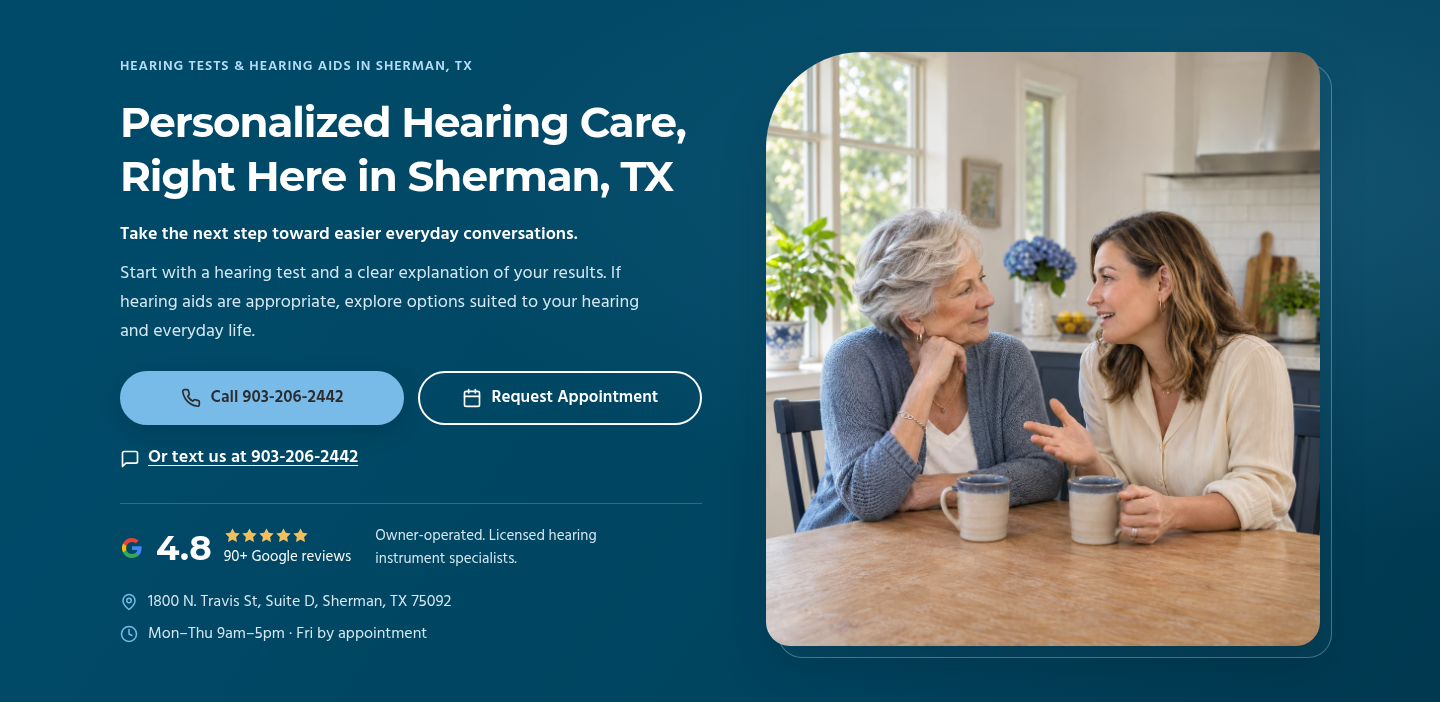
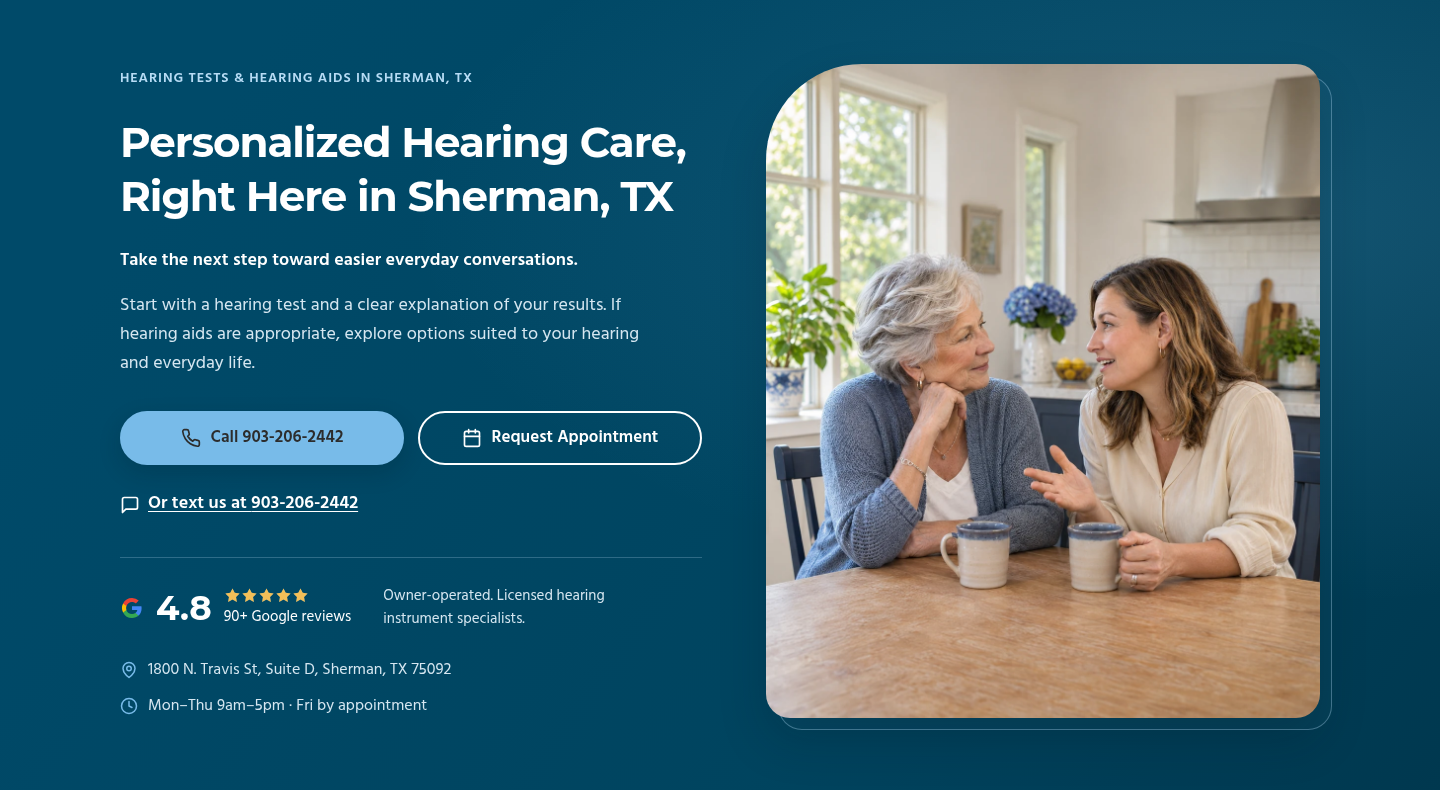
Give hero content more breathing space

diff --git a/index.html b/index.html
@@ -283,38 +283,43 @@ a:hover{ color:var(--hc-navy); }
 }
 
 /* Refined split hero: retain headline styling and existing image. */
-.hc-hero--split{ padding:52px 0 56px; }
+.hc-hero--split{ padding:64px 0 72px; }
 .hc-hero__grid{ column-gap:64px; }
 .hc-hero__eyebrow{ padding:0; border:0; border-radius:0; background:transparent; letter-spacing:.065em; }
-.hc-hero__benefit{ margin-top:22px; padding:0; border:0; font-size:1.125rem; line-height:1.5; font-weight:600; }
-.hc-hero__lead{ margin-top:12px; max-width:520px; }
-.hc-hero__actions{ margin-top:24px; }
+.hc-hero--split h1{ margin-top:26px; }
+.hc-hero__benefit{ margin-top:28px; padding:0; border:0; font-size:1.125rem; line-height:1.5; font-weight:600; }
+.hc-hero__lead{ margin-top:18px; max-width:520px; }
+.hc-hero__actions{ margin-top:32px; }
+.hc-hero--split .hc-cta{ row-gap:18px; }
 .hc-hero--split .hc-btn{ min-height:54px; }
 .hc-hero--split .hc-btn--appt{ background:transparent; color:#fff; border-color:#fff; transition:none; }
 .hc-hero--split .hc-btn--appt:hover,.hc-hero--split .hc-btn--appt:focus-visible{ background:#fff; color:var(--hc-navy); border-color:#fff; }
-.hc-hero__proof{ grid-area:proof; display:flex; flex-wrap:wrap; align-items:center; gap:14px 24px; margin-top:22px; padding-top:20px; border-top:1px solid rgba(183,220,245,.25); }
+.hc-hero__proof{ grid-area:proof; display:flex; flex-wrap:wrap; align-items:center; gap:18px 32px; margin-top:30px; padding-top:26px; border-top:1px solid rgba(183,220,245,.25); }
 .hc-hero--split .hc-hero__proof .hc-badge{ margin:0; flex:none; }
 .hc-hero__proof .hc-hero__trust{ display:block; flex:1 1 200px; max-width:270px; margin:0; font-size:.9375rem; line-height:1.5; color:#d6e7f1; }
 .hc-hero__proof .hc-hero__trust::before{ display:none; }
-.hc-hero--split .hc-facts{ margin-top:18px; padding:0; border:0; background:transparent; border-radius:0; gap:8px; }
+.hc-hero--split .hc-facts{ margin-top:26px; padding:0; border:0; background:transparent; border-radius:0; gap:12px; }
 .hc-hero__media{ min-height:0; border-radius:96px 24px 24px 24px; box-shadow:0 22px 48px rgba(0,20,32,.2); }
 .hc-hero__media::after{ inset:12px -12px -12px 12px; border-radius:96px 24px 24px 24px; }
 .hc-hero__media img{ object-position:50% 58%; }
 @media(max-width:1199px) and (min-width:1024px){ .hc-hero__grid{ column-gap:40px; } }
 @media(max-width:1023px){
- .hc-hero--split{ padding:40px 0 44px; }
+ .hc-hero--split{ padding:48px 0 52px; }
  .hc-hero__media{ aspect-ratio:4 / 3; border-radius:60px 20px 20px 20px; }
  .hc-hero__media img{ object-position:50% 46%; }
 }
 @media(max-width:639px){
- .hc-hero--split{ padding:30px 0 36px; }
+ .hc-hero--split{ padding:36px 0 44px; }
  .hc-hero__eyebrow{ font-size:.8125rem; line-height:1.6; letter-spacing:.035em; }
- .hc-hero__benefit{ margin-top:18px; font-size:1.0625rem; }
- .hc-hero__actions{ margin-top:22px; }
- .hc-hero__proof{ margin-top:20px; padding-top:18px; gap:12px; }
+ .hc-hero--split h1{ margin-top:22px; }
+ .hc-hero__benefit{ margin-top:22px; font-size:1.0625rem; }
+ .hc-hero__lead{ margin-top:16px; }
+ .hc-hero__actions{ margin-top:28px; }
+ .hc-hero--split .hc-cta{ row-gap:14px; }
+ .hc-hero__proof{ margin-top:26px; padding-top:22px; gap:16px; }
  .hc-hero__proof .hc-hero__trust{ max-width:none; flex-basis:100%; }
- .hc-hero--split .hc-facts{ margin-top:16px; }
- .hc-hero__media{ margin-top:24px; border-radius:48px 16px 16px 16px; }
+ .hc-hero--split .hc-facts{ margin-top:22px; }
+ .hc-hero__media{ margin-top:30px; border-radius:48px 16px 16px 16px; }
 }
 
 /* Stars */

diff --git a/review/hero-review.html b/review/hero-review.html
@@ -283,38 +283,43 @@ a:hover{ color:var(--hc-navy); }
 }
 
 /* Refined split hero: retain headline styling and existing image. */
-.hc-hero--split{ padding:52px 0 56px; }
+.hc-hero--split{ padding:64px 0 72px; }
 .hc-hero__grid{ column-gap:64px; }
 .hc-hero__eyebrow{ padding:0; border:0; border-radius:0; background:transparent; letter-spacing:.065em; }
-.hc-hero__benefit{ margin-top:22px; padding:0; border:0; font-size:1.125rem; line-height:1.5; font-weight:600; }
-.hc-hero__lead{ margin-top:12px; max-width:520px; }
-.hc-hero__actions{ margin-top:24px; }
+.hc-hero--split h1{ margin-top:26px; }
+.hc-hero__benefit{ margin-top:28px; padding:0; border:0; font-size:1.125rem; line-height:1.5; font-weight:600; }
+.hc-hero__lead{ margin-top:18px; max-width:520px; }
+.hc-hero__actions{ margin-top:32px; }
+.hc-hero--split .hc-cta{ row-gap:18px; }
 .hc-hero--split .hc-btn{ min-height:54px; }
 .hc-hero--split .hc-btn--appt{ background:transparent; color:#fff; border-color:#fff; transition:none; }
 .hc-hero--split .hc-btn--appt:hover,.hc-hero--split .hc-btn--appt:focus-visible{ background:#fff; color:var(--hc-navy); border-color:#fff; }
-.hc-hero__proof{ grid-area:proof; display:flex; flex-wrap:wrap; align-items:center; gap:14px 24px; margin-top:22px; padding-top:20px; border-top:1px solid rgba(183,220,245,.25); }
+.hc-hero__proof{ grid-area:proof; display:flex; flex-wrap:wrap; align-items:center; gap:18px 32px; margin-top:30px; padding-top:26px; border-top:1px solid rgba(183,220,245,.25); }
 .hc-hero--split .hc-hero__proof .hc-badge{ margin:0; flex:none; }
 .hc-hero__proof .hc-hero__trust{ display:block; flex:1 1 200px; max-width:270px; margin:0; font-size:.9375rem; line-height:1.5; color:#d6e7f1; }
 .hc-hero__proof .hc-hero__trust::before{ display:none; }
-.hc-hero--split .hc-facts{ margin-top:18px; padding:0; border:0; background:transparent; border-radius:0; gap:8px; }
+.hc-hero--split .hc-facts{ margin-top:26px; padding:0; border:0; background:transparent; border-radius:0; gap:12px; }
 .hc-hero__media{ min-height:0; border-radius:96px 24px 24px 24px; box-shadow:0 22px 48px rgba(0,20,32,.2); }
 .hc-hero__media::after{ inset:12px -12px -12px 12px; border-radius:96px 24px 24px 24px; }
 .hc-hero__media img{ object-position:50% 58%; }
 @media(max-width:1199px) and (min-width:1024px){ .hc-hero__grid{ column-gap:40px; } }
 @media(max-width:1023px){
- .hc-hero--split{ padding:40px 0 44px; }
+ .hc-hero--split{ padding:48px 0 52px; }
  .hc-hero__media{ aspect-ratio:4 / 3; border-radius:60px 20px 20px 20px; }
  .hc-hero__media img{ object-position:50% 46%; }
 }
 @media(max-width:639px){
- .hc-hero--split{ padding:30px 0 36px; }
+ .hc-hero--split{ padding:36px 0 44px; }
  .hc-hero__eyebrow{ font-size:.8125rem; line-height:1.6; letter-spacing:.035em; }
- .hc-hero__benefit{ margin-top:18px; font-size:1.0625rem; }
- .hc-hero__actions{ margin-top:22px; }
- .hc-hero__proof{ margin-top:20px; padding-top:18px; gap:12px; }
+ .hc-hero--split h1{ margin-top:22px; }
+ .hc-hero__benefit{ margin-top:22px; font-size:1.0625rem; }
+ .hc-hero__lead{ margin-top:16px; }
+ .hc-hero__actions{ margin-top:28px; }
+ .hc-hero--split .hc-cta{ row-gap:14px; }
+ .hc-hero__proof{ margin-top:26px; padding-top:22px; gap:16px; }
  .hc-hero__proof .hc-hero__trust{ max-width:none; flex-basis:100%; }
- .hc-hero--split .hc-facts{ margin-top:16px; }
- .hc-hero__media{ margin-top:24px; border-radius:48px 16px 16px 16px; }
+ .hc-hero--split .hc-facts{ margin-top:22px; }
+ .hc-hero__media{ margin-top:30px; border-radius:48px 16px 16px 16px; }
 }
 
 /* Stars */

diff --git a/DESIGN_SYSTEM.md b/DESIGN_SYSTEM.md
@@ -351,3 +351,6 @@ Authorized audit performance update: register existing contact/dialog handlers b
 ## User-authorized refined hero hierarchy
 
 User approved the refined split-hero recommendation with “okay make the changes.” Preserve H1 wording, original size/color/weight and mobile natural wrapping; retain every text statement and image URL. Quiet the eyebrow, reduce competing callout styling, group Google proof with the owner credential beneath aligned CTAs, and simplify address/hours without a tinted panel. Refine photo proportions/crop and corner treatment; preserve both faces. Explicit white-outline default and navy-on-white hover/focus fix the faded appointment button; add matching label wrapper. Desktop padding 52/56px and mobile 30/36px. No other section, header, integration, phone or review value changed. This user-authorized revision reopens only hero presentation; awaiting rendered approval.
+
+
+User requested additional breathing space after the latest desktop screenshot. Increase only hero spacing: section padding, service-label-to-headline gap, benefit/body gaps, CTA spacing, trust divider spacing, credential separation and location-line spacing, with moderated mobile increases. Preserve font sizes, all wording, images, headline wrapping rules, button colors and other sections. Awaiting rendered review.

diff --git a/review/HERO_REVIEW.md b/review/HERO_REVIEW.md
@@ -86,3 +86,6 @@ User approved the refined split-hero recommendation with “okay make the change
 
 
 Refined hero verification: seven widths (320, 390, 500, 768, 1024, 1440, 1920px), no section overflow, equal CTA widths, dialog open/Escape/focus return. H1 text/color/font rules preserved exactly; no forced mobile Care break. Hover/focus explicitly uses navy text/icon on white and has no color interpolation to avoid transient low contrast. Desktop and mobile crop inspected using the cached actual hero asset; faces remain visible. All subsequent sections, header, scripts and contact destinations unchanged. Current layout requires GHL review before lock.
+
+
+User requested additional breathing space after the latest desktop screenshot. Increase only hero spacing: section padding, service-label-to-headline gap, benefit/body gaps, CTA spacing, trust divider spacing, credential separation and location-line spacing, with moderated mobile increases. Preserve font sizes, all wording, images, headline wrapping rules, button colors and other sections. Awaiting rendered review.
